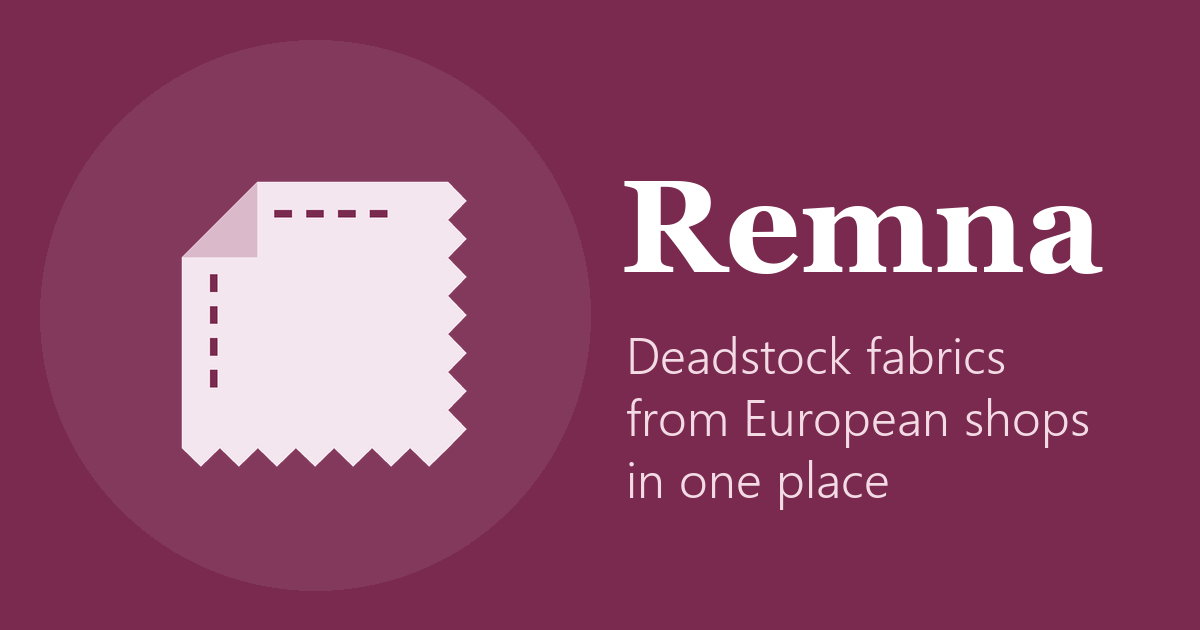
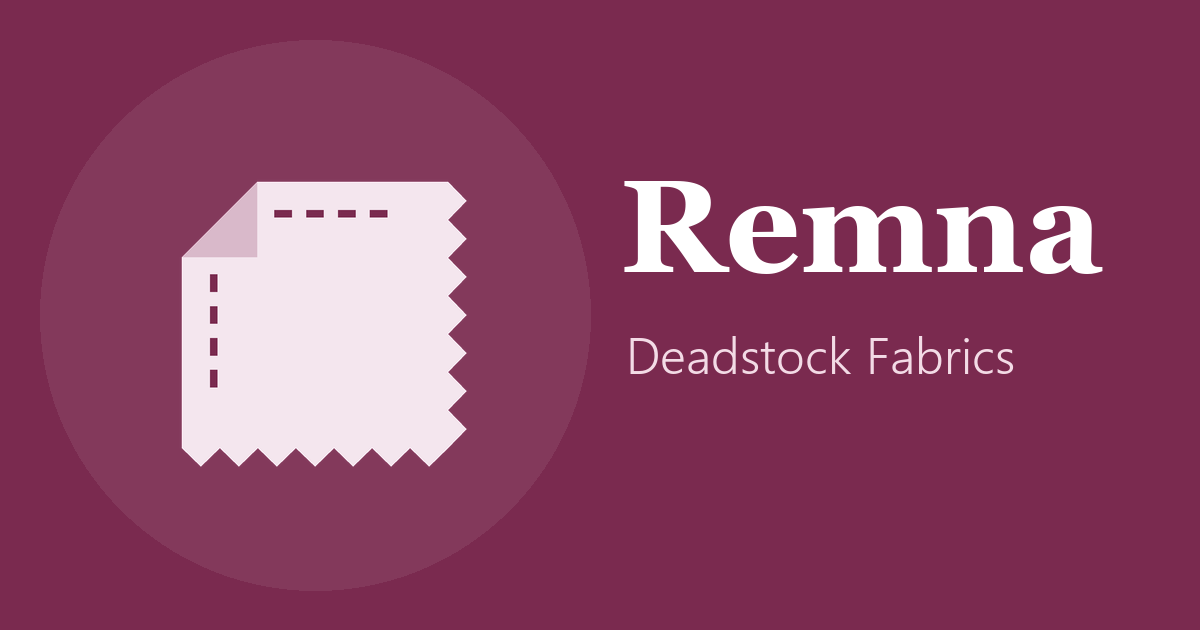
Remna: wersja webowa

Changed region(s): [[0.5242, 0.6333, 0.925, 0.6937], [0.5242, 0.7238, 0.74, 0.8143], [0.7092, 0.5429, 0.8633, 0.6032]]

diff --git a/i18n-langs.js b/i18n-langs.js
@@ -8,7 +8,7 @@
     const countries = (names) => Object.fromEntries(Object.entries(names).map(([k, v]) => ['country.' + k, v]));
 
     I.addDict('de', Object.assign({
-      'app.tagline': `Deadstock-Stoffe aus europäischen Shops`,
+      'app.tagline': `Deadstock-Stoffe aus vielen Shops`,
       'tab.search': `Suchen`, 'tab.favorites': `Gemerkt`, 'tab.alerts': `Alarme`, 'tab.more': `Mehr`,
       'search.placeholder': `Suche: Seide, Tweed, Leinen…`, 'search.clear': `Löschen`,
       'filters.open': `Filter`, 'filters.title': `Filter`, 'filters.reset': `Filter zurücksetzen`,
@@ -71,10 +71,10 @@
       'alerts.pushSoon': `Benachrichtigungen aufs Handy kommen in der nächsten Version. Bis dahin werden neue Angebote bei jedem Öffnen der App gezählt.`,
       'alerts.checking': `Suche nach neuen Angeboten…`,
       'more.title': `Mehr`, 'more.language': `Sprache`, 'more.sources': `Shops in Remna`,
-      'more.sourcesNote': (n) => `Remna durchsucht ${n} Shops mit Deadstock-Stoffen in Europa. Die Angebote werden mehrmals täglich aktualisiert.`,
+      'more.sourcesNote': (n) => `Remna durchsucht ${n} Shops mit Deadstock-Stoffen. Die Angebote werden mehrmals täglich aktualisiert.`,
       'more.offers': (n) => fmtCount(n, 'de'),
       'intro.title': `Willkommen bei Remna`,
-      'intro.lead': `Deadstock-Stoffe sind Überbestände von Modehäusern und Webereien: schöne Materialien in begrenzter Menge. Remna durchsucht für dich europäische Shops, die sie verkaufen.`,
+      'intro.lead': `Deadstock-Stoffe sind Überbestände von Modehäusern und Webereien: schöne Materialien in begrenzter Menge. Remna durchsucht für dich die Shops, die sie verkaufen.`,
       'intro.point1': `Suche nach Material, Zusammensetzung (z. B. 100 % Seide), Farbe, Muster und Meterpreis.`,
       'intro.point2': `Merke dir Stoffe und speichere Alarme, um zu sehen, was seit deinem letzten Besuch neu ist.`,
       'intro.point3': `Du kaufst direkt im Shop. Remna wickelt keine Zahlungen ab und braucht kein Konto.`,
@@ -100,7 +100,7 @@
       AT: 'Österreich', IE: 'Irland' })));
 
     I.addDict('fr', Object.assign({
-      'app.tagline': `Tissus deadstock de boutiques européennes`,
+      'app.tagline': `Tissus deadstock de nombreuses boutiques`,
       'tab.search': `Rechercher`, 'tab.favorites': `Favoris`, 'tab.alerts': `Alertes`, 'tab.more': `Plus`,
       'search.placeholder': `Rechercher : soie, tweed, lin…`, 'search.clear': `Effacer`,
       'filters.open': `Filtres`, 'filters.title': `Filtres`, 'filters.reset': `Effacer les filtres`,
@@ -163,10 +163,10 @@
       'alerts.pushSoon': `Les notifications sur téléphone arrivent dans la prochaine version. En attendant, les nouvelles annonces sont comptées à chaque ouverture de l’app.`,
       'alerts.checking': `Recherche de nouvelles annonces…`,
       'more.title': `Plus`, 'more.language': `Langue`, 'more.sources': `Boutiques sur Remna`,
-      'more.sourcesNote': (n) => `Remna parcourt ${n} boutiques de tissus deadstock en Europe. Les annonces sont actualisées plusieurs fois par jour.`,
+      'more.sourcesNote': (n) => `Remna parcourt ${n} boutiques de tissus deadstock. Les annonces sont actualisées plusieurs fois par jour.`,
       'more.offers': (n) => fmtCount(n, 'fr'),
       'intro.title': `Bienvenue sur Remna`,
-      'intro.lead': `Les tissus deadstock sont des surplus de maisons de mode et de tissages : de belles matières en quantités limitées. Remna parcourt pour vous les boutiques européennes qui les vendent.`,
+      'intro.lead': `Les tissus deadstock sont des surplus de maisons de mode et de tissages : de belles matières en quantités limitées. Remna parcourt pour vous les boutiques qui les vendent.`,
       'intro.point1': `Recherchez par matière, composition (par ex. 100 % soie), couleur, motif et prix au mètre.`,
       'intro.point2': `Enregistrez favoris et alertes pour voir ce qui est nouveau depuis votre dernière visite.`,
       'intro.point3': `Vous achetez directement en boutique. Remna ne gère pas le paiement et ne demande pas de compte.`,
@@ -192,7 +192,7 @@
       AT: 'Autriche', IE: 'Irlande' })));
 
     I.addDict('it', Object.assign({
-      'app.tagline': `Tessuti deadstock da negozi europei`,
+      'app.tagline': `Tessuti deadstock da tanti negozi`,
       'tab.search': `Cerca`, 'tab.favorites': `Preferiti`, 'tab.alerts': `Avvisi`, 'tab.more': `Altro`,
       'search.placeholder': `Cerca: seta, tweed, lino…`, 'search.clear': `Cancella`,
       'filters.open': `Filtri`, 'filters.title': `Filtri`, 'filters.reset': `Azzera filtri`,
@@ -255,10 +255,10 @@
       'alerts.pushSoon': `Le notifiche sul telefono arriveranno nella prossima versione. Per ora le nuove offerte vengono contate a ogni apertura dell’app.`,
       'alerts.checking': `Ricerca di nuove offerte…`,
       'more.title': `Altro`, 'more.language': `Lingua`, 'more.sources': `Negozi su Remna`,
-      'more.sourcesNote': (n) => `Remna cerca in ${n} negozi di tessuti deadstock in Europa. Le offerte vengono aggiornate più volte al giorno.`,
+      'more.sourcesNote': (n) => `Remna cerca in ${n} negozi di tessuti deadstock. Le offerte vengono aggiornate più volte al giorno.`,
       'more.offers': (n) => fmtCount(n, 'it'),
       'intro.title': `Benvenuto su Remna`,
-      'intro.lead': `I tessuti deadstock sono eccedenze di case di moda e tessiture: bei materiali in quantità limitate. Remna cerca per te nei negozi europei che li vendono.`,
+      'intro.lead': `I tessuti deadstock sono eccedenze di case di moda e tessiture: bei materiali in quantità limitate. Remna cerca per te nei negozi che li vendono.`,
       'intro.point1': `Cerca per materiale, composizione (es. 100% seta), colore, fantasia e prezzo al metro.`,
       'intro.point2': `Salva preferiti e avvisi per vedere cosa c’è di nuovo dalla tua ultima visita.`,
       'intro.point3': `Acquisti direttamente dal negozio. Remna non gestisce i pagamenti e non richiede un account.`,
@@ -284,7 +284,7 @@
       AT: 'Austria', IE: 'Irlanda' })));
 
     I.addDict('es', Object.assign({
-      'app.tagline': `Tejidos deadstock de tiendas europeas`,
+      'app.tagline': `Tejidos deadstock de muchas tiendas`,
       'tab.search': `Buscar`, 'tab.favorites': `Guardados`, 'tab.alerts': `Alertas`, 'tab.more': `Más`,
       'search.placeholder': `Buscar: seda, tweed, lino…`, 'search.clear': `Borrar`,
       'filters.open': `Filtros`, 'filters.title': `Filtros`, 'filters.reset': `Borrar filtros`,
@@ -347,10 +347,10 @@
       'alerts.pushSoon': `Las notificaciones en el móvil llegarán en la próxima versión. Por ahora, las ofertas nuevas se cuentan cada vez que abres la app.`,
       'alerts.checking': `Buscando ofertas nuevas…`,
       'more.title': `Más`, 'more.language': `Idioma`, 'more.sources': `Tiendas en Remna`,
-      'more.sourcesNote': (n) => `Remna busca en ${n} tiendas de tejidos deadstock de Europa. Las ofertas se actualizan varias veces al día.`,
+      'more.sourcesNote': (n) => `Remna busca en ${n} tiendas de tejidos deadstock. Las ofertas se actualizan varias veces al día.`,
       'more.offers': (n) => fmtCount(n, 'es'),
       'intro.title': `Bienvenido a Remna`,
-      'intro.lead': `Los tejidos deadstock son excedentes de casas de moda y fábricas textiles: materiales bonitos en cantidades limitadas. Remna busca por ti en las tiendas europeas que los venden.`,
+      'intro.lead': `Los tejidos deadstock son excedentes de casas de moda y fábricas textiles: materiales bonitos en cantidades limitadas. Remna busca por ti en las tiendas que los venden.`,
       'intro.point1': `Busca por material, composición (p. ej. 100 % seda), color, estampado y precio por metro.`,
       'intro.point2': `Guarda favoritos y alertas para ver qué hay de nuevo desde tu última visita.`,
       'intro.point3': `Compras directamente en la tienda. Remna no gestiona el pago ni necesita cuenta.`,
@@ -376,7 +376,7 @@
       AT: 'Austria', IE: 'Irlanda' })));
 
     I.addDict('nl', Object.assign({
-      'app.tagline': `Deadstock-stoffen uit Europese winkels`,
+      'app.tagline': `Deadstock-stoffen uit veel winkels`,
       'tab.search': `Zoeken`, 'tab.favorites': `Bewaard`, 'tab.alerts': `Meldingen`, 'tab.more': `Meer`,
       'search.placeholder': `Zoek: zijde, tweed, linnen…`, 'search.clear': `Wissen`,
       'filters.open': `Filters`, 'filters.title': `Filters`, 'filters.reset': `Filters wissen`,
@@ -439,10 +439,10 @@
       'alerts.pushSoon': `Pushmeldingen op je telefoon komen in de volgende versie. Tot dan worden nieuwe aanbiedingen geteld telkens als je de app opent.`,
       'alerts.checking': `Zoeken naar nieuwe aanbiedingen…`,
       'more.title': `Meer`, 'more.language': `Taal`, 'more.sources': `Winkels op Remna`,
-      'more.sourcesNote': (n) => `Remna doorzoekt ${n} winkels met deadstock-stoffen in Europa. De aanbiedingen worden meerdere keren per dag vernieuwd.`,
+      'more.sourcesNote': (n) => `Remna doorzoekt ${n} winkels met deadstock-stoffen. De aanbiedingen worden meerdere keren per dag vernieuwd.`,
       'more.offers': (n) => fmtCount(n, 'nl'),
       'intro.title': `Welkom bij Remna`,
-      'intro.lead': `Deadstock-stoffen zijn overschotten van modehuizen en weverijen: mooie materialen in beperkte hoeveelheden. Remna doorzoekt voor jou de Europese winkels die ze verkopen.`,
+      'intro.lead': `Deadstock-stoffen zijn overschotten van modehuizen en weverijen: mooie materialen in beperkte hoeveelheden. Remna doorzoekt voor jou de winkels die ze verkopen.`,
       'intro.point1': `Zoek op materiaal, samenstelling (bijv. 100% zijde), kleur, dessin en meterprijs.`,
       'intro.point2': `Bewaar favorieten en meldingen om te zien wat er nieuw is sinds je laatste bezoek.`,
       'intro.point3': `Je koopt rechtstreeks bij de winkel. Remna regelt geen betalingen en vraagt geen account.`,

diff --git a/i18n.js b/i18n.js
@@ -4,7 +4,7 @@
   'use strict';
 
   const pl = {
-    'app.tagline': 'Tkaniny deadstock z europejskich sklepów',
+    'app.tagline': 'Tkaniny deadstock z wielu sklepów',
     'tab.search': 'Szukaj',
     'tab.favorites': 'Ulubione',
     'tab.alerts': 'Alerty',
@@ -141,7 +141,7 @@
     'more.title': 'Więcej',
     'more.language': 'Język',
     'more.sources': 'Sklepy w Remnie',
-    'more.sourcesNote': (n) => `Remna przeszukuje ${n} ${plForm(n, 'sklep', 'sklepy', 'sklepów')} z tkaninami deadstock w Europie. Dane odświeżamy kilka razy dziennie.`,
+    'more.sourcesNote': (n) => `Remna przeszukuje ${n} ${plForm(n, 'sklep', 'sklepy', 'sklepów')} z tkaninami deadstock. Dane odświeżamy kilka razy dziennie.`,
     'more.offers': (n) => fmtCount(n, 'pl'),
     'more.about': 'O Remnie',
     'more.aboutText': 'Deadstock to nadwyżki tkanin z domów mody i tkalni: jakościowe materiały w ograniczonych ilościach, często w niższych cenach. Remna zbiera je w jednym miejscu, żeby projektanci i krawcy nie musieli przeglądać dziesiątek sklepów.',
@@ -149,7 +149,7 @@
     'more.privacyText': 'Remna nie wymaga konta. Ulubione i alerty są zapisane tylko na tym urządzeniu.',
     'more.privacyLink': 'Pełna polityka prywatności',
     'intro.title': 'Witaj w Remnie',
-    'intro.lead': 'Tkaniny deadstock to nadwyżki z domów mody i tkalni: piękne materiały w ograniczonych ilościach. Remna przeszukuje za Ciebie europejskie sklepy z takimi tkaninami.',
+    'intro.lead': 'Tkaniny deadstock to nadwyżki z domów mody i tkalni: piękne materiały w ograniczonych ilościach. Remna przeszukuje za Ciebie sklepy z takimi tkaninami.',
     'intro.point1': 'Szukaj po materiale, składzie (np. 100% jedwabiu), kolorze, wzorze i cenie za metr.',
     'intro.point2': 'Zapisuj ulubione i alerty: zobaczysz, co nowego pojawiło się od ostatniej wizyty.',
     'intro.point3': 'Kupujesz bezpośrednio w sklepie. Remna nie pośredniczy w płatności i nie wymaga konta.',
@@ -180,7 +180,7 @@
   };
 
   const en = {
-    'app.tagline': 'Deadstock fabrics from European shops',
+    'app.tagline': 'Deadstock fabrics from many shops',
     'tab.search': 'Search',
     'tab.favorites': 'Saved',
     'tab.alerts': 'Alerts',
@@ -317,10 +317,10 @@
     'more.title': 'More',
     'more.language': 'Language',
     'more.sources': 'Shops on Remna',
-    'more.sourcesNote': (n) => `Remna searches ${n} deadstock fabric ${n === 1 ? 'shop' : 'shops'} across Europe. Listings are refreshed several times a day.`,
+    'more.sourcesNote': (n) => `Remna searches ${n} deadstock fabric ${n === 1 ? 'shop' : 'shops'}. Listings are refreshed several times a day.`,
     'more.offers': (n) => fmtCount(n, 'en'),
     'intro.title': 'Welcome to Remna',
-    'intro.lead': 'Deadstock fabrics are surplus from fashion houses and mills: beautiful materials in limited quantities. Remna searches European shops that sell them, so you do not have to.',
+    'intro.lead': 'Deadstock fabrics are surplus from fashion houses and mills: beautiful materials in limited quantities. Remna searches the shops that sell them, so you do not have to.',
     'intro.point1': 'Search by material, composition (e.g. 100% silk), colour, pattern and price per metre.',
     'intro.point2': 'Save favourites and alerts to see what is new since your last visit.',
     'intro.point3': 'You buy directly from the shop. Remna does not handle payment and needs no account.',

diff --git a/index.html b/index.html
@@ -7,18 +7,18 @@
   <meta name="viewport" content="width=device-width, initial-scale=1">
   <meta name="theme-color" content="#f3f4f6" media="(prefers-color-scheme: light)">
   <meta name="theme-color" content="#131417" media="(prefers-color-scheme: dark)">
-  <title>Remna – deadstock fabrics from European shops</title>
-  <meta name="description" content="Search deadstock fabrics from 25+ European shops: silk, wool, linen, cotton and more. Filter by composition, colour, pattern, weight and price per metre. Buy directly from the shop.">
+  <title>Remna – Deadstock Fabrics</title>
+  <meta name="description" content="Search deadstock fabrics from 25+ shops at once: silk, wool, linen, cotton and more. Filter by composition, colour, pattern, weight and price per metre. Buy directly from the shop.">
   <!-- Podgląd linku (Facebook, Messenger, WhatsApp, Instagram) -->
   <meta property="og:type" content="website">
   <meta property="og:site_name" content="Remna">
-  <meta property="og:title" content="Remna – deadstock fabrics from European shops">
-  <meta property="og:description" content="30,000+ deadstock fabrics from 26 European shops in one place. Search by material, composition, colour and pattern.">
+  <meta property="og:title" content="Remna – Deadstock Fabrics">
+  <meta property="og:description" content="30,000+ deadstock fabrics from many shops in one place. Search by material, composition, colour and pattern.">
   <meta property="og:url" content="https://remnafabrics.com/">
   <meta property="og:image" content="https://remnafabrics.com/og.png">
   <meta property="og:image:width" content="1200">
   <meta property="og:image:height" content="630">
-  <meta property="og:image:alt" content="Remna: deadstock fabrics from European shops in one place">
+  <meta property="og:image:alt" content="Remna – Deadstock Fabrics">
   <meta property="og:locale" content="en_GB">
   <meta property="og:locale:alternate" content="pl_PL">
   <meta name="twitter:card" content="summary_large_image">
@@ -30,7 +30,7 @@
   <meta name="mobile-web-app-capable" content="yes">
   <meta name="apple-mobile-web-app-title" content="Remna">
   <meta name="apple-mobile-web-app-status-bar-style" content="default">
-  <link rel="stylesheet" href="styles.css?v=1a026b1">
+  <link rel="stylesheet" href="styles.css?v=9db8135">
 </head>
 <body>
   <div id="app">
@@ -199,12 +199,12 @@
 
   <div class="toast" id="toast" role="status" hidden></div>
 
-  <script src="config.js?v=1a026b1"></script>
-  <script src="i18n.js?v=1a026b1"></script>
-  <script src="i18n-langs.js?v=1a026b1"></script>
-  <script src="filters.js?v=1a026b1"></script>
-  <script src="data.js?v=1a026b1"></script>
-  <script src="native.js?v=1a026b1"></script>
-  <script src="app.js?v=1a026b1"></script>
+  <script src="config.js?v=9db8135"></script>
+  <script src="i18n.js?v=9db8135"></script>
+  <script src="i18n-langs.js?v=9db8135"></script>
+  <script src="filters.js?v=9db8135"></script>
+  <script src="data.js?v=9db8135"></script>
+  <script src="native.js?v=9db8135"></script>
+  <script src="app.js?v=9db8135"></script>
 </body>
 </html>

diff --git a/app.js b/app.js
@@ -81,7 +81,7 @@
   // --- Tłumaczenia statycznego HTML ---------------------------------------------
   function applyI18n() {
     document.documentElement.lang = I.getLang();
-    document.title = 'Remna – ' + t('app.tagline').charAt(0).toLowerCase() + t('app.tagline').slice(1);
+    document.title = 'Remna – Deadstock Fabrics';   // nazwa aplikacji (jak w Google Play), w każdym języku ta sama
     document.querySelectorAll('[data-i18n]').forEach((el) => { el.textContent = t(el.dataset.i18n); });
     document.querySelectorAll('[data-i18n-placeholder]').forEach((el) => { el.placeholder = t(el.dataset.i18nPlaceholder); });
     document.querySelectorAll('[data-i18n-aria]').forEach((el) => { el.setAttribute('aria-label', t(el.dataset.i18nAria)); });

diff --git a/config.js b/config.js
@@ -5,7 +5,7 @@ window.REMNA_CONFIG = {
   supabaseUrl: 'https://ayoipaivjbixtuejdaqd.supabase.co',
   supabaseKey: 'sb_publishable_DXRm86QQYlTACvTiDllUEQ_7-fiKEYe',
   demoUrl: 'data/demo.json',
-  version: '1.0.0',
+  version: '1.0.1',
   contactEmail: 'remna.app@gmail.com',   // adres kontaktowy Remny
   webUrl: 'https://remnafabrics.com/',   // adres wersji webowej (linki do udostępniania)
 };
